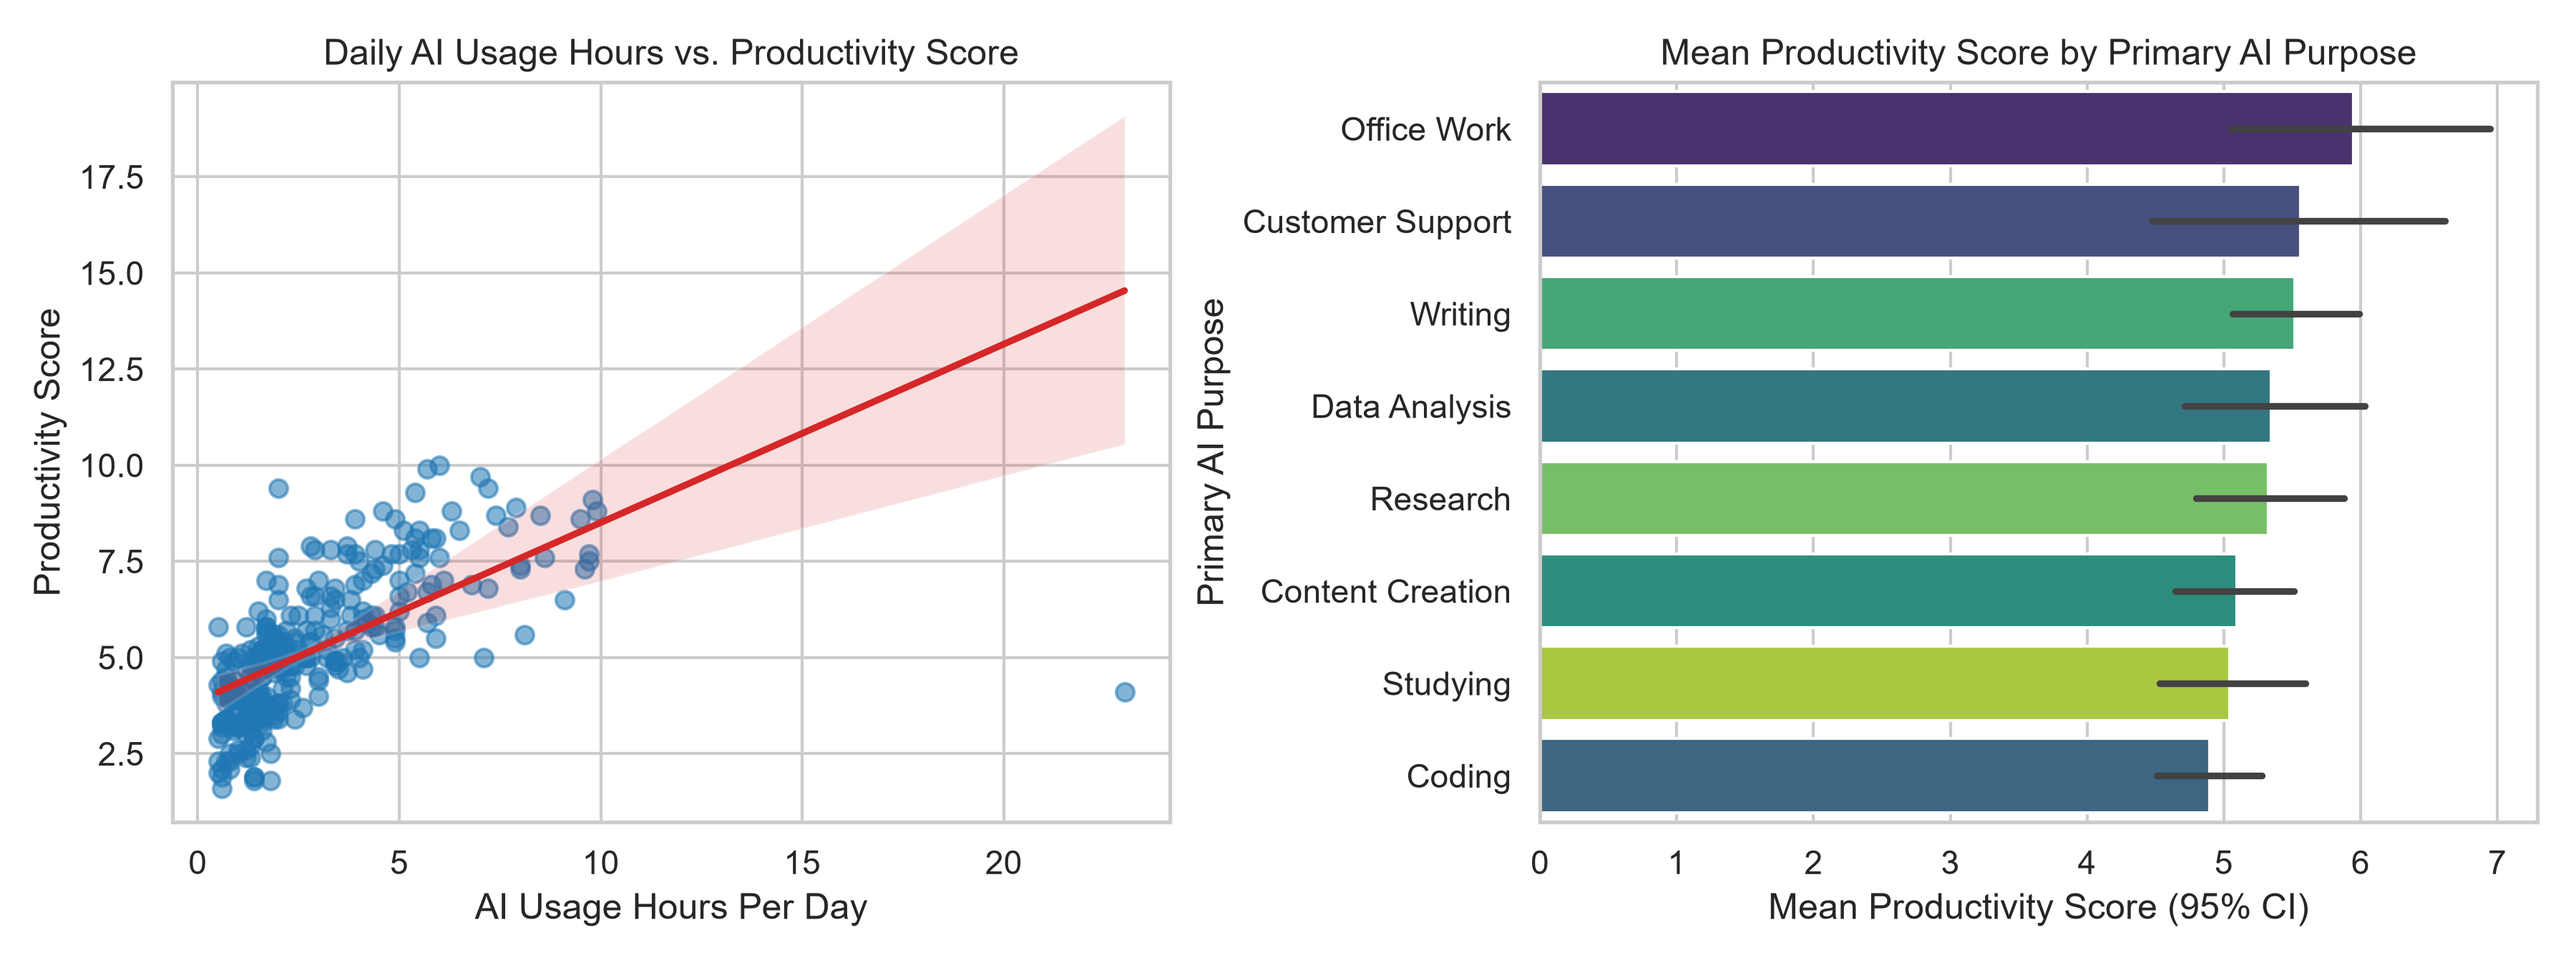
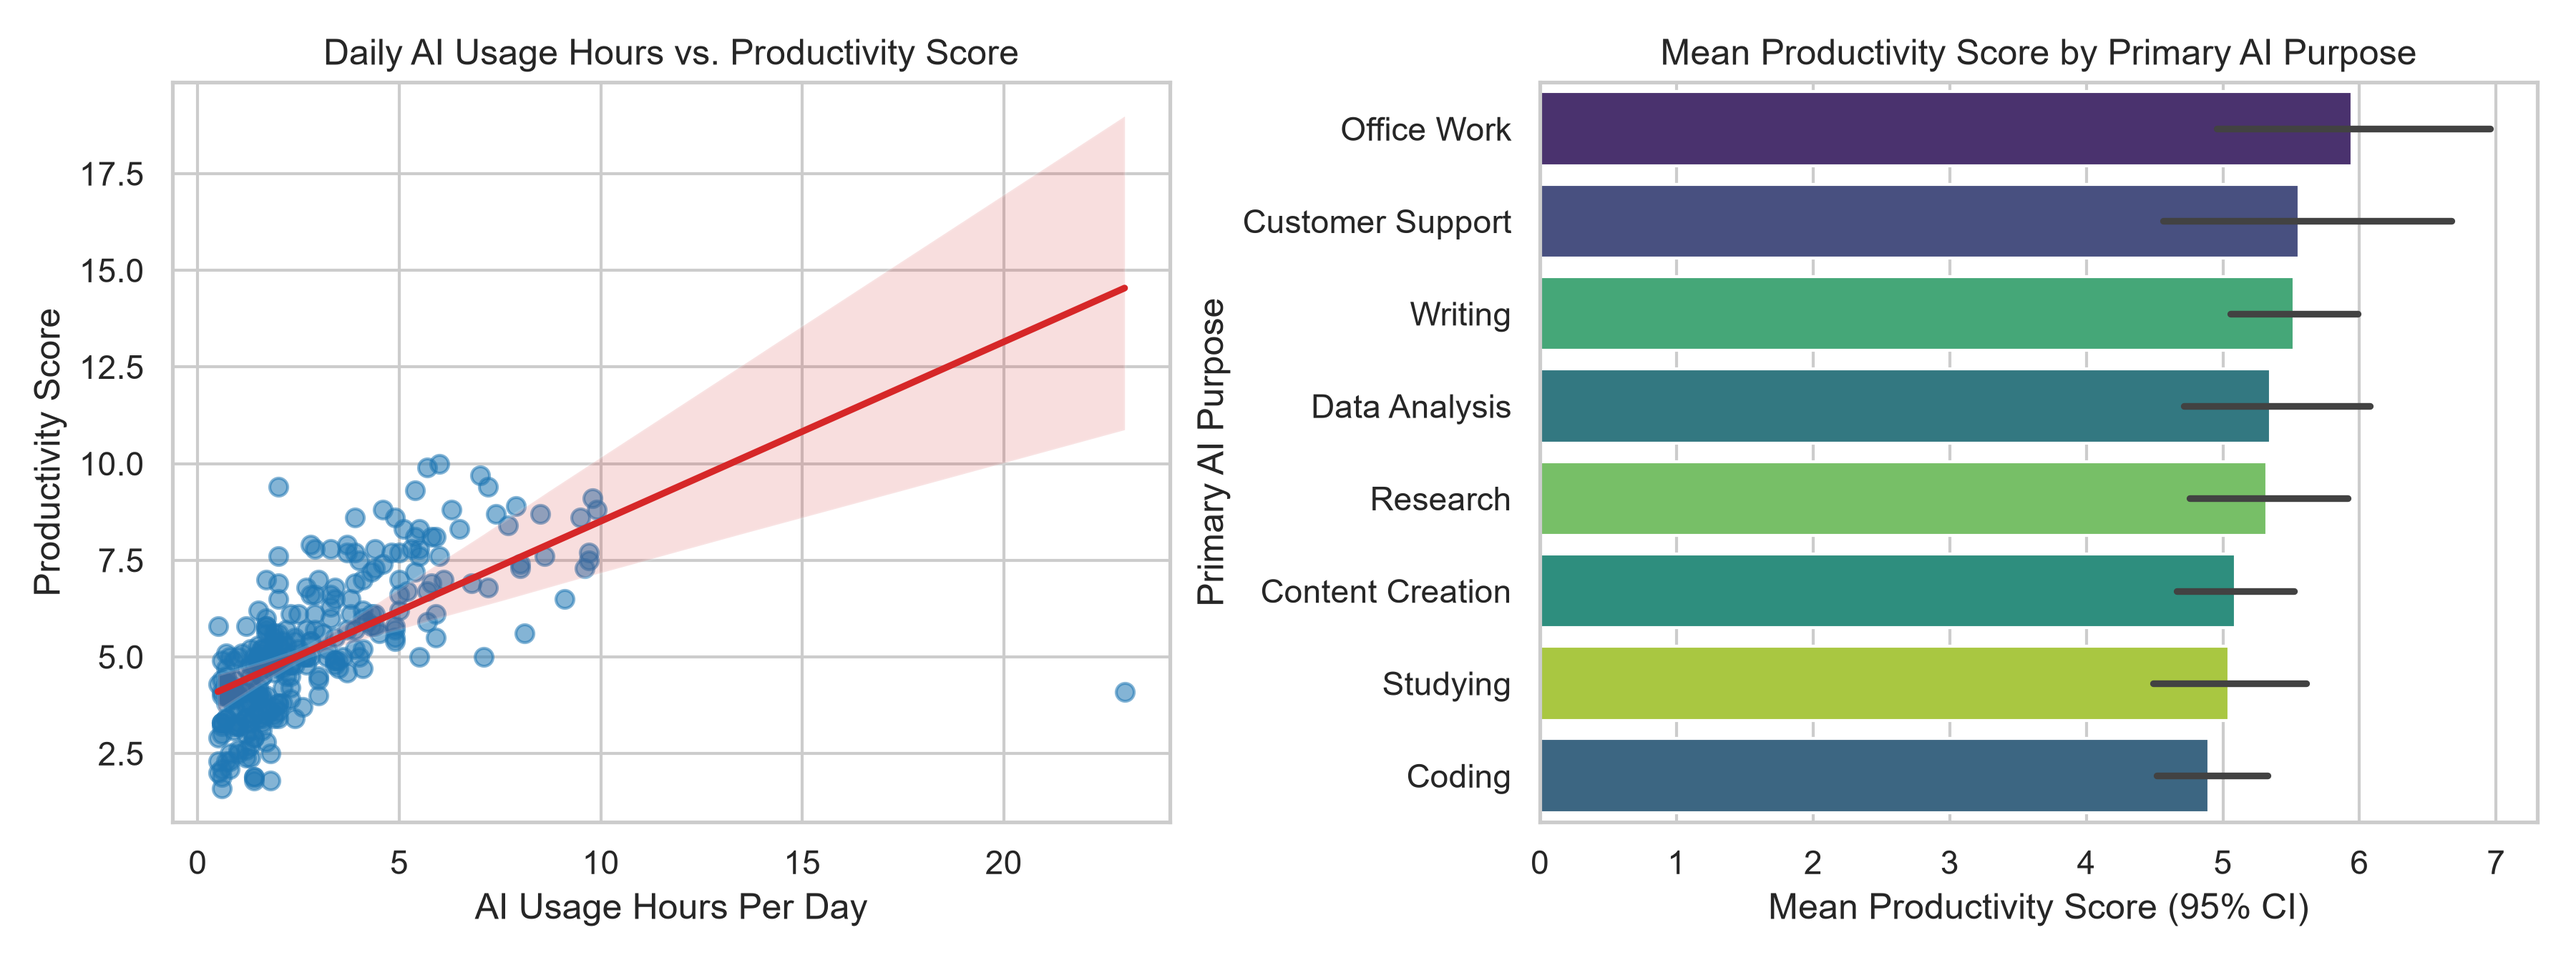
fixing the llm

diff --git a/src/app.py b/src/app.py
@@ -660,9 +660,10 @@ if st.button("Generate AI Interpretation via LangChain", type="primary"):
                     ),
                 )
                 llm = ChatGoogleGenerativeAI(
-                    model="gemini-3.8-flash",
-                    google_api_key=gemini_api_key,
-                    temperature=0,
+                 model="gemini-3.8-flash-lite",
+                 google_api_key=gemini_api_key,
+                 temperature=0,
+                 max_retries=1,
                 )
                 chain = prompt_template | llm | StrOutputParser()
                 ai_response = chain.invoke({"stats_context": context_summary, "question": user_ai_query})
